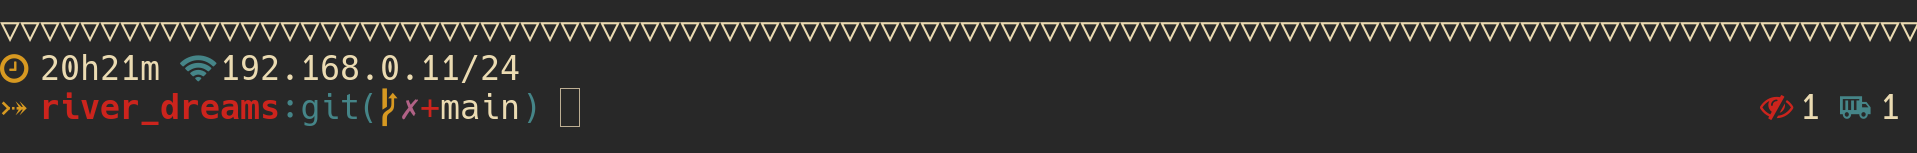
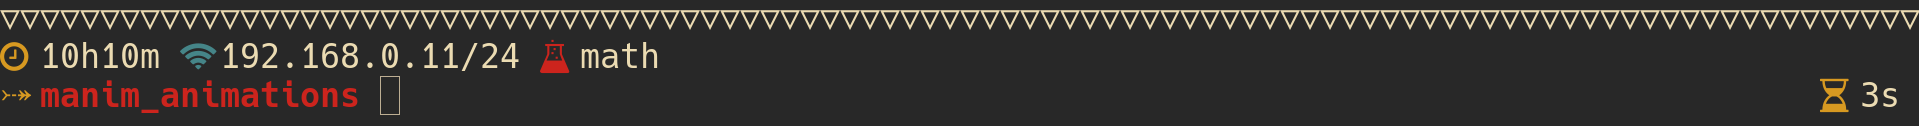
feat: add module to show sourced python environment.

diff --git a/README.md b/README.md
@@ -8,6 +8,7 @@ current environment:
 
   + current hours and minutes.
   + local ip address.
+  + sourced Python environment.
   + exit code on errors.
   + current directory.
   + directory permissions.
